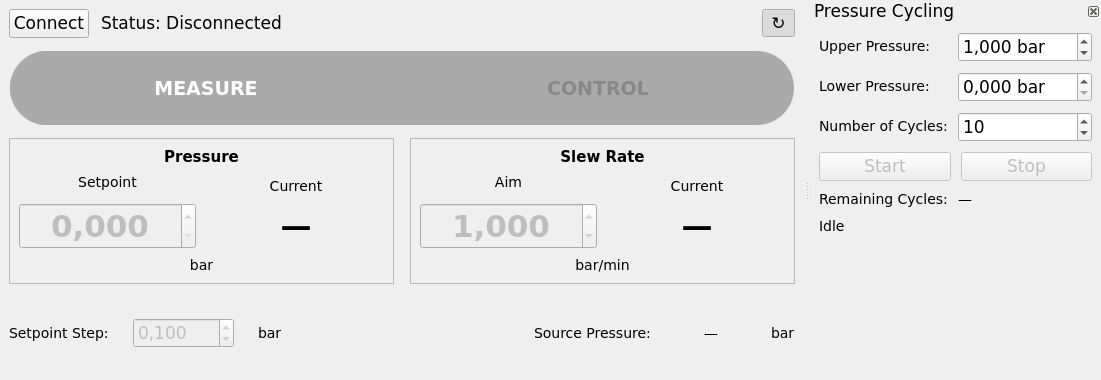
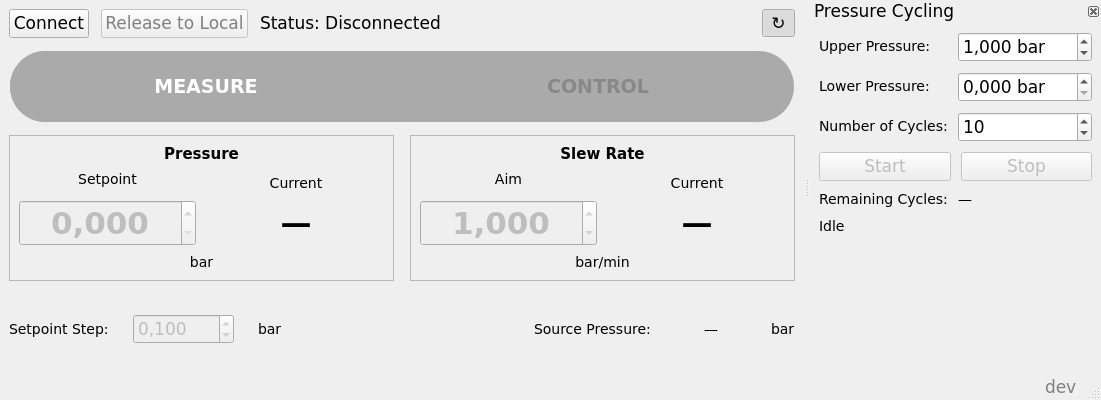
Update README for Release to Local, connect-sync, and version display
Documents the features added since the screenshot/feature list were last
written, and refreshes the screenshot to the current GUI (Release to Local
button, version label in the status bar).

diff --git a/README.md b/README.md
@@ -9,11 +9,21 @@ controller over VISA/SCPI (USB or Ethernet).
 
 - Switch between MEASURE and CONTROL mode
 - Set a target pressure and slew rate, with live pressure/rate readouts
+- On connect, syncs the setpoint, slew rate, and mode from the instrument's
+  actual live state, rather than showing stale defaults
 - Run an automated pressure cycling sequence — upper/lower pressure,
   cycle count, start/stop, and a remaining-cycles counter — from a
   dockable side panel
 - Auto-discover the instrument over USB/Ethernet, or connect by IP
   directly for static-IP Ethernet instruments that don't answer discovery
+- **Release to Local**: hands control back to the instrument's front panel
+  reliably. Just pressing the instrument's own on-screen local control
+  doesn't work while this app is connected — any SCPI traffic, including
+  routine polling, immediately re-arms remote lockout. This button pauses
+  the app first, so the release actually sticks; **Resume Remote Control**
+  restarts it and re-syncs in case anything changed at the panel meanwhile
+- Warns if the instrument's own pressure unit isn't set to bar, since the
+  app only interprets bar (and bar/min for rate)
 
 ## Download
 
@@ -43,7 +53,9 @@ if nothing is found, it falls back to asking for an IP address directly.
 ## Building the Windows executable
 
 Pushing a version tag (`vX.Y.Z`) builds `SqueezeCtrl.exe` via GitHub Actions
-and publishes it to the [Releases page](../../releases) automatically.
+and publishes it to the [Releases page](../../releases) automatically. The
+tag is stamped into the build and shown in the app's status bar, so the
+running app's version always matches what was actually released.
 
 To build it manually instead, on Windows:
 
